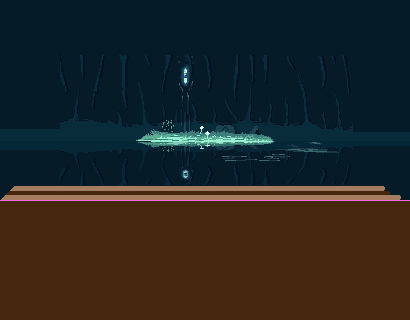
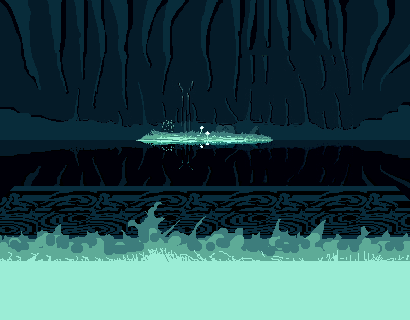
Added level selection

diff --git a/MenuState.js b/MenuState.js
@@ -1,0 +1,96 @@
+var MenuState = function(w, h)
+{
+    this.w = w || 0;
+    this.h = h || 0;
+	
+	this.backgroundImage = new Image();
+	this.backgroundImage.src = './images/stageselect.png';
+	
+	this.stageSelectHighlight = new Image();
+	this.stageSelectHighlight.src = './images/stage_selection_ring.png';
+	
+	this.xSelect1 = 37 * 2;
+	this.ySelect1 = 150 * 2;
+	
+	this.xSelect2 = 117 * 2;
+	this.ySelect2 = 150 * 2;
+	
+	this.xSelect3 = 53 * 2;
+	this.ySelect3 = 197 * 2;
+	
+	this.currentSelectionX = this.xSelect1;
+	this.currentSelectionY = this.ySelect1;
+	this.selectionNumber = 0; //0 = desert, 1 = final destination, 2 = grotto
+
+    this.running = true;
+}
+
+MenuState.prototype =
+{
+    // Update the simulation each frame
+    update: function(dt)
+    {
+		//makes sure selection number is within range
+		if(this.selectionNumber < 0){ 
+			this.selectionNumber = 2;
+		}
+		if(this.selectionNumber > 2){ 
+			this.selectionNumber = 0;
+		}
+	
+		//updates the position of the selection highligher
+		if(this.selectionNumber === 0){
+			this.currentSelectionX = this.xSelect1;
+			this.currentSelectionY = this.ySelect1;
+		}
+		else if(this.selectionNumber === 1){
+			this.currentSelectionX = this.xSelect2;
+			this.currentSelectionY = this.ySelect2;
+		}
+		else if(this.selectionNumber === 2){
+			this.currentSelectionX = this.xSelect3;
+			this.currentSelectionY = this.ySelect3;
+		}
+    },
+
+    // Reset the simulation
+    reset: function()
+    {
+        if(this.running == false) {
+            this.running = true;
+            Run();
+        }
+    },
+
+	keyPress: function( keyCode)
+	{
+		switch(keyCode){
+			case 37: // Left arrow
+				this.selectionNumber--;
+				break;
+			case 39: // Right arrow
+				this.selectionNumber++;
+				break;
+			case 13: // Enter
+			case 32: // Spacebar
+				//Move to the GameState
+				engine.startGame(this.selectionNumber);
+				break;
+		}
+	},
+
+    // Functions for starting and stopping the simulation
+    start: function() { this.running = true },
+    pause: function() { this.running = false },
+    // Returns running
+    isRunning: function() { return this.running },
+
+    draw: function(canvas)
+    {
+        canvas.clearRect(0, 0, this.w, this.h);
+		canvas.drawImage(this.backgroundImage, 0, 0, 820, 640);
+		
+		canvas.drawImage(this.stageSelectHighlight, this.currentSelectionX, this.currentSelectionY, 62 * 2, 40 * 2);
+    },
+
+}

diff --git a/GameState.js b/GameState.js
@@ -1,13 +1,18 @@
-var GameState = function(w, h)
+var GameState = function(w, h, level)
 {
     this.w = w || 0;
     this.h = h || 0;
+	
+	this.level = level;
 
     this.desertBackground = new Image();
     this.desertBackground.src = './images/bg_desert.png'
 	
 	this.finalDestinationBackground = new Image();
 	this.finalDestinationBackground.src = './images/finald.png';
+	
+	this.grottoBackground = new Image();
+	this.grottoBackground.src = './images/bg_grotto.png';
 	
 	this.activeBackground = this.desertBackground; //this.activeBackground should be set after ALL other background images are initialized
 
@@ -22,11 +27,13 @@ var GameState = function(w, h)
 		this.player1 = new Player(240, 401, false);
 		this.player2 = new Player(580, 401, true);
 	}*/
-	this.chooseLevel(0);
+	this.chooseLevel(this.level);
 
     this.shots = [];
 
     this.winner = 0;
+	
+	this.gameIsEnding = false;
 	
 	this.isScreenShaking = true; //set this to true any time a screen shake should occur 
 	this.isScreenShakingEnd = false;
@@ -37,7 +44,7 @@ var GameState = function(w, h)
 }
 
 GameState.prototype =
-{
+{	
     // Update the simulation each frame
     update: function(dt)
     {
@@ -99,7 +106,10 @@ GameState.prototype =
 			case 40: // Down arrow
 				//Crouch player 2
 				break;
-			
+			case 27: //Escape key
+				//Quit to the main menu
+				this.gameIsEnding = true;
+				break;
 		}
 	
 	},
@@ -126,6 +136,16 @@ GameState.prototype =
 			this.transX = 0;
 			this.transY = 0;
 		}
+		
+		if(this.gameIsEnding){ //ensures that the camera is back to normal by the time the game ends
+			canvas.translate(-this.transX, -this.transY);
+			this.isScreenShaking = false;
+			this.isScreenShakingEnd = false;
+			this.transX = 0;
+			this.transY = 0;
+			
+			engine.activeState = engine.menuState;
+		}
 	
         canvas.clearRect(0, 0, this.w, this.h);
         canvas.drawImage(this.activeBackground, 0, 0, 820, 640);
@@ -151,6 +171,12 @@ GameState.prototype =
 			var yPos = 431;
 			this.player1 = new Player(240, yPos, false);
 			this.player2 = new Player(580, yPos, true);
+		}
+		else if(level === 2){ //2 is grotto
+			this.activeBackground = this.grottoBackground;
+			var yPos = 431;
+			this.player1 = new Player(150, yPos, false);
+			this.player2 = new Player(670, yPos, true);
 		}
 	}
 }

diff --git a/index.html b/index.html
@@ -9,6 +9,7 @@
         <script src="./Shot.js" type="text/javascript"></script>
         <script src="./Player.js" type="text/javascript"></script>
 		<script src="./GameState.js" type="text/javascript"></script>
+		<script src="./MenuState.js" type="text/javascript"></script>
         <script src="./Engine.js" type="text/javascript"></script>
         <script src="./Events.js" type="text/javascript"></script>
         <script src="./Run.js" type="text/javascript"></script>

diff --git a/Engine.js b/Engine.js
@@ -10,7 +10,8 @@ var Engine = function(w, h)
     this.time = Date.now();
 	
 	this.gameState = new GameState(w, h);
-	this.activeState = this.gameState;
+	this.menuState = new MenuState(w, h);
+	this.activeState = this.menuState;
 }
 
 Engine.prototype =
@@ -45,4 +46,8 @@ Engine.prototype =
     {
 		this.activeState.draw(canvas);
     },
+	
+	startGame: function(stage){
+		this.activeState = new GameState(this.w, this.h, stage);
+	}
 }
